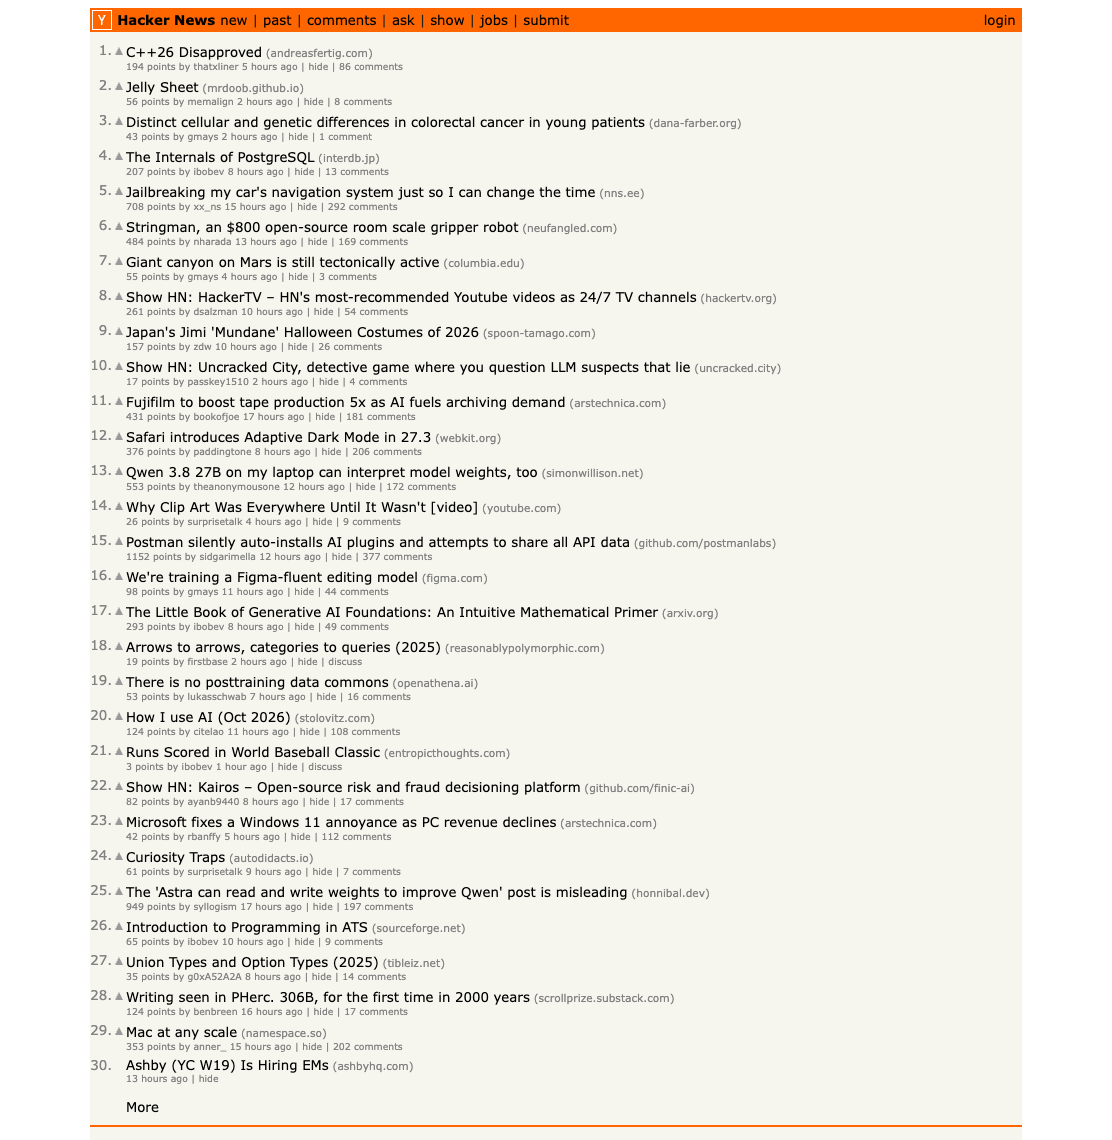
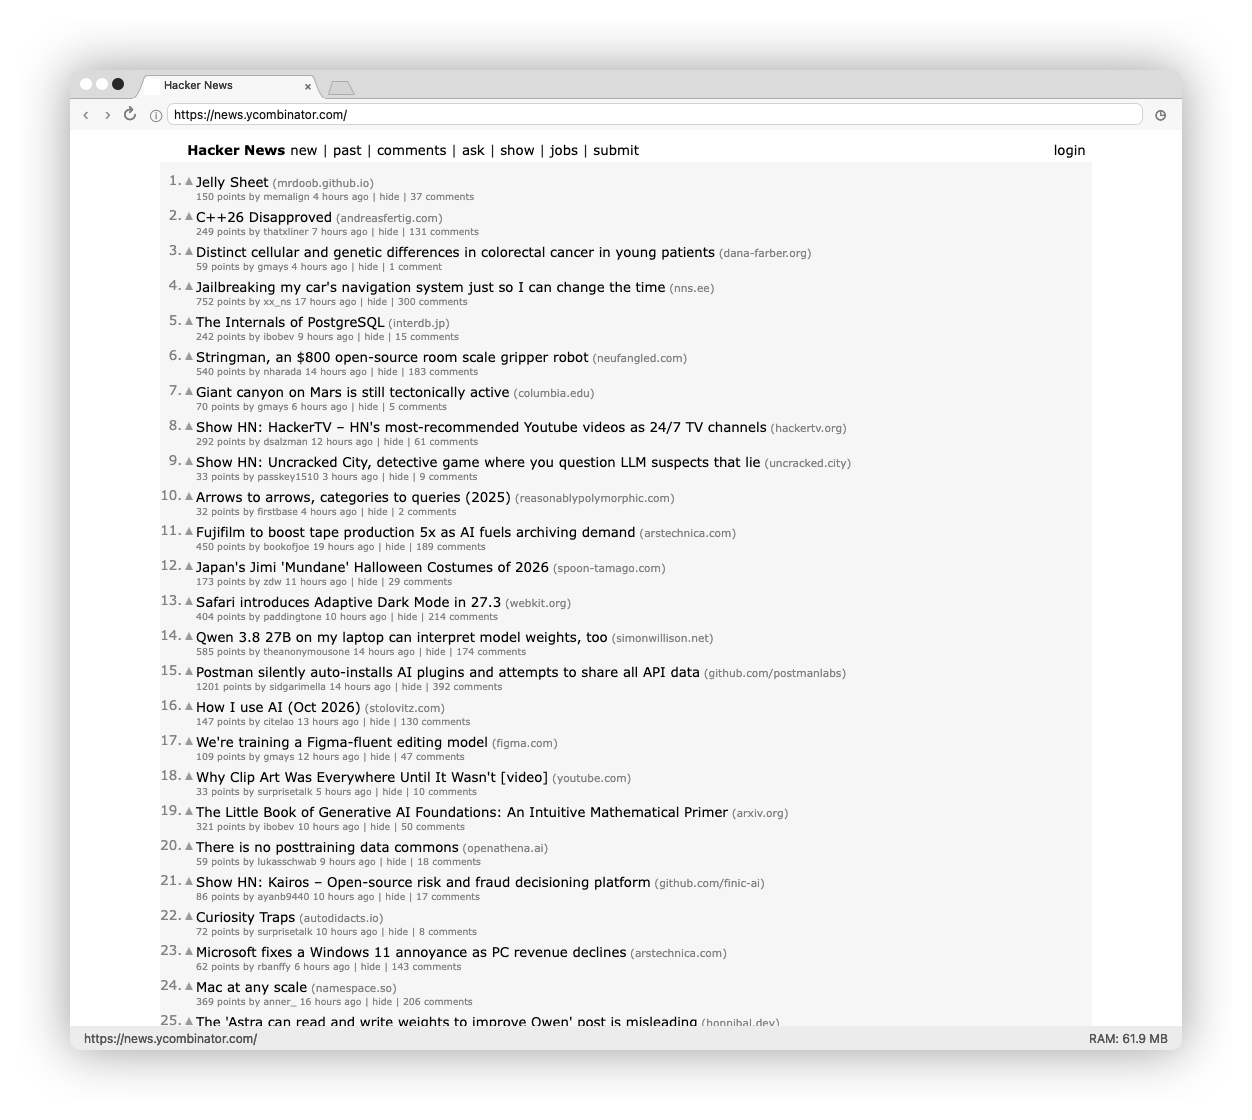
Use full macOS Vox window screenshot in hero

Changed region(s): [[0.0306, 0.0, 0.9784, 1.0]]

diff --git a/index.html b/index.html
@@ -119,7 +119,7 @@
         </div>
         <div class="chapter__image-col with-big-title">
 
-            <img class="full-height" src="/assets/screen1.png?v=20261104" width="1112" height="1140" alt="Vox browser displaying Hacker News" loading="lazy">
+            <img class="full-height" src="/assets/screen1.png?v=20261104b" width="1252" height="1120" alt="Vox browser displaying Hacker News" loading="lazy">
         </div>
     </div>
 </div>

diff --git a/README.md b/README.md
@@ -108,4 +108,4 @@ Restoration repairs:
 
 The archived “Something more” placeholders and dated roadmap copy are preserved as originally published.
 
-The homepage screenshot `assets/screen1.png` is a current capture of Vox rendering news.ycombinator.com (1112x1140, taken with `capture_screenshot.sh` from `~/code/vox2`). The original 2023 screenshot is kept at `archive/screen1-20231122.png`.
+The homepage screenshot `assets/screen1.png` is a current capture of Vox rendering news.ycombinator.com (the full macOS Vox window with rounded corners and shadow, 1252x1120, captured with the browser's `--screenshot` window mode from `~/code/vox2`). The original 2023 screenshot is kept at `archive/screen1-20231122.png`.
